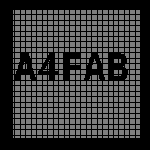
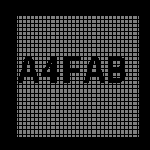
WIP
There's a bug that crashes some amount of sampling.

Introduction of sparse matrices is to blame

diff --git a/src/light_factor.rs b/src/light_factor.rs
@@ -52,17 +52,20 @@ pub struct LFBuffers {
     starting_values: (f32, f32),
     rng: bool,
     sample_next_redraw_flag: bool,
+    solve_next_redraw_flag: bool,
     progress: Option<RwLock<f32>>,
     matrix_rep: Option<LFMatrices>,
 }
 
 /// Struct to hold the matrices that we will build.
 /// Observations will be
+#[derive(Clone)]
 pub struct LFMatrices {
     m_a_y_matrix: SparseColMat<u32, f32>,
     m_a_x_matrix: SparseColMat<u32, f32>,
     m_b_y_matrix: SparseColMat<u32, f32>,
     m_b_x_matrix: SparseColMat<u32, f32>,
+    sample_count: usize,
 }
 
 impl LFBuffers {
@@ -176,6 +179,7 @@ impl LFBuffers {
             show_steps: false,
             starting_values: (0.5, 0.5),
             sample_next_redraw_flag: false,
+            solve_next_redraw_flag: false,
             progress: None,
             matrix_rep: None,
         }
@@ -201,10 +205,15 @@ impl LFBuffers {
             .collect();
         // Remove duplicates!
         triplet_list.retain(|(x, y, _entry)| seen.insert((*x, *y)));
+        let max_index = triplet_list.iter().max().unwrap();
+        println!("Max seen is: {:?}", max_index);
         seen
     }
     pub fn will_sample(&self) -> bool {
         self.sample_next_redraw_flag
+    }
+    pub fn will_solve(&self) -> bool {
+        self.solve_next_redraw_flag
     }
 
     pub fn build_m_a(
@@ -213,11 +222,15 @@ impl LFBuffers {
         target_size: (u32, u32),
         panel_size: (u32, u32),
     ) -> (SparseColMat<u32, f32>, SparseColMat<u32, f32>) {
+        println!("Target size: {:?}", target_size);
+        println!("Panel Size: {:?}", panel_size);
+
         let tripltets_m_a_x = Self::buffer_to_triplet(&self.m_a_x_buffer, device);
         let trplit_list: Vec<Triplet<u32, u32, f32>> = tripltets_m_a_x
             .iter()
             .map(|(x, y)| Triplet::new(*x, *y, 1.0f32))
             .collect();
+
         // Height t times height a
         let matrix_m_a_x = SparseColMat::try_new_from_triplets(
             target_size.1 as usize,
@@ -248,6 +261,8 @@ impl LFBuffers {
         target_size: (u32, u32),
         panel_size: (u32, u32),
     ) -> (SparseColMat<u32, f32>, SparseColMat<u32, f32>) {
+        println!("Target size: {:?}", target_size);
+        println!("Panel Size: {:?}", panel_size);
         let tripltets_m_b_x = Self::buffer_to_triplet(&self.m_b_x_buffer, device);
 
         let triplit_list: Vec<Triplet<u32, u32, f32>> = tripltets_m_b_x
@@ -280,65 +295,58 @@ impl LFBuffers {
     }
     pub fn sample_light_field(
         &mut self,
-        ct_image: &DynamicImage,
         device: &wgpu::Device,
         pixel_count_a: Vector2<u32>,
         pixel_count_b: Vector2<u32>,
         target_size: (u32, u32),
-    ) -> Option<(DynamicImage, DynamicImage)> {
+    ) {
         // Flag has not been raised
         if !self.sample_next_redraw_flag {
-            return None;
+            return;
         }
+
         let panel_a_size = (pixel_count_a.x, pixel_count_a.y);
         let panel_b_size = (pixel_count_b.x, pixel_count_b.y);
         let (ma_x, ma_y) = self.build_m_a(device, target_size, panel_a_size);
         let (mb_x, mb_y) = self.build_m_b(device, target_size, panel_b_size);
+        println!("Ma_x:{:?}", ma_x);
+        println!("Ma_y:{:?}", ma_y);
+        println!("Mb_x:{:?}", mb_x);
+        println!("Mb_y:{:?}", mb_y);
 
         let matrices = LFMatrices {
             m_a_y_matrix: ma_y,
             m_a_x_matrix: ma_x,
             m_b_y_matrix: mb_y,
             m_b_x_matrix: mb_x,
+            sample_count: 1,
         };
-        self.matrix_rep = Some(matrices);
+        if self.matrix_rep.is_none() {
+            self.matrix_rep = Some(matrices);
+        } else {
+            self.matrix_rep.as_mut().unwrap().join(matrices);
+        }
 
-        let c_t = image_to_matrix(ct_image);
-
-        let (a, b) = self.factorize(c_t);
-
-        let image_a = matrix_to_image(&a);
-        image_a
-            .save_with_format(
-                "./resources/panel_compute/panel_1.png",
-                image::ImageFormat::Png,
-            )
-            .unwrap();
-
-        let image_b = matrix_to_image(&b);
-
-        image_b
-            .save_with_format(
-                "./resources/panel_compute/panel_2.png",
-                image::ImageFormat::Png,
-            )
-            .unwrap();
         // We have already sampled, no need to sample again
         self.sample_next_redraw_flag = false;
-        Some((image_a, image_b))
     }
 
-    pub fn factorize(&self, c_t: Mat<f32>) -> (Mat<f32>, Mat<f32>) {
-        // Give 10 threads
+    pub fn factorize(&mut self, c_t: &DynamicImage) -> Option<(DynamicImage, DynamicImage)> {
+        let c_t = image_to_matrix(c_t);
         matrix_to_image(&c_t)
             .save_with_format(
                 "./resources/panel_compute/intermediate/C_T.png",
                 image::ImageFormat::Png,
             )
             .unwrap();
+
+        // Give 10 threads
         faer::set_global_parallelism(faer::Par::Rayon(NonZero::new(10).unwrap()));
 
-        let matrices = self.matrix_rep.as_ref().unwrap();
+        self.matrix_rep.as_ref()?;
+
+        let mut matrices = self.matrix_rep.as_ref().unwrap().clone();
+        matrices.average();
 
         let m_a_y = &matrices.m_a_y_matrix;
         let m_a_x = &matrices.m_a_x_matrix;
@@ -429,9 +437,45 @@ impl LFBuffers {
                     .for_each(|unzip!(c_b, n, d)| *c_b *= *n / (*d + 0.000000001f32));
             }
         }
-        (c_a, c_b)
+
+        let image_a = matrix_to_image(&c_a);
+        image_a
+            .save_with_format(
+                "./resources/panel_compute/panel_1.png",
+                image::ImageFormat::Png,
+            )
+            .unwrap();
+
+        let image_b = matrix_to_image(&c_b);
+
+        image_b
+            .save_with_format(
+                "./resources/panel_compute/panel_2.png",
+                image::ImageFormat::Png,
+            )
+            .unwrap();
+        self.solve_next_redraw_flag = false;
+        Some((image_a, image_b))
     }
 }
+
+impl LFMatrices {
+    pub fn join(&mut self, other: Self) {
+        self.sample_count += other.sample_count;
+
+        self.m_b_x_matrix = &self.m_b_x_matrix + &other.m_b_x_matrix;
+        self.m_a_x_matrix = &self.m_a_x_matrix + &other.m_a_x_matrix;
+        self.m_b_y_matrix = &self.m_b_y_matrix + &other.m_b_y_matrix;
+        self.m_a_y_matrix = &self.m_a_y_matrix + &other.m_a_y_matrix;
+    }
+    pub fn average(&mut self) {
+        self.m_b_x_matrix /= faer::Scale(self.sample_count as f32);
+        self.m_a_x_matrix /= faer::Scale(self.sample_count as f32);
+        self.m_a_y_matrix /= faer::Scale(self.sample_count as f32);
+        self.m_b_y_matrix /= faer::Scale(self.sample_count as f32);
+    }
+}
+
 impl DrawUI for LFBuffers {
     fn draw_ui(&mut self, ctx: &egui::Context, title: Option<String>) {
         let title = title.unwrap_or("Light Field Sampler".to_string());
@@ -445,8 +489,12 @@ impl DrawUI for LFBuffers {
                 ui.label("Iteration count");
                 ui.add(egui::Slider::new(&mut self.iter_count, 1..=1000));
                 ui.checkbox(&mut self.show_steps, "Print steps");
-                if ui.button("Solve").clicked() {
+
+                if ui.button("Sample").clicked() {
                     self.sample_next_redraw_flag = true;
+                }
+                if ui.button("Solve").clicked() {
+                    self.solve_next_redraw_flag = true;
                 }
                 if self.progress.is_some() {
                     let progress = *self.progress.as_ref().unwrap().read();

diff --git a/src/app.rs b/src/app.rs
@@ -102,7 +102,7 @@ impl AppState {
         surface.configure(&device, &surface_config);
 
         //
-        let texture_bytes = include_bytes!("../resources/textures/High res text.png");
+        let texture_bytes = include_bytes!("../resources/textures/Aircraft_code.png");
 
         let texture = texture::Texture::from_bytes(&device, &queue, texture_bytes, "Damn");
 
@@ -451,24 +451,28 @@ impl AppState {
     fn will_sample_light_field(&self) -> bool {
         self.factorizer.will_sample()
     }
+    fn will_solve_light_field(&self) -> bool {
+        self.factorizer.will_solve()
+    }
 
-    fn sample_light_field(&mut self, ct_image: &DynamicImage) {
+    fn sample_light_field(&mut self) {
         let target_size = (self.texture.dimensions.x, self.texture.dimensions.y);
         let pixel_count_a = self.scene.panels[0].panel.pixel_count;
 
         let pixel_count_b = self.scene.panels[1].panel.pixel_count;
         let device = &self.device;
-        let images = self.factorizer.sample_light_field(
-            ct_image,
-            device,
-            pixel_count_a,
-            pixel_count_b,
-            target_size,
-        );
-        if let Some((img_0, img_1)) = images {
-            self.update_panel(img_0, 0);
+        self.factorizer
+            .sample_light_field(device, pixel_count_a, pixel_count_b, target_size);
+    }
+    fn solver_light_field(&mut self, ct_image: &DynamicImage) {
+        if self.factorizer.will_solve() {
+            let images = self.factorizer.factorize(ct_image);
 
-            self.update_panel(img_1, 1);
+            if let Some((img_0, img_1)) = images {
+                self.update_panel(img_0, 0);
+
+                self.update_panel(img_1, 1);
+            }
         }
     }
     fn update_panel(&mut self, image: DynamicImage, panel_entry: usize) {
@@ -605,12 +609,26 @@ impl App {
             _ => (),
         }
     }
+
     /// Return true if we have sampled the light field, which means that we need to update the
     /// textures!
     pub fn get_sample_light_field(&mut self) -> Result<bool, String> {
         let state = self.state.as_mut().unwrap();
         if state.will_sample_light_field() {
             self.sampling_light_field = true;
+
+            state.sample_light_field();
+            //state.factorizer.sample_buffer_a_y(device);
+
+            self.sampling_light_field = false;
+            Ok(true)
+        } else {
+            Ok(false)
+        }
+    }
+    pub fn solve_light_field(&mut self) -> bool {
+        let state = self.state.as_mut().unwrap();
+        if state.will_solve_light_field() {
             let c_t = image::ImageReader::open({
                 if self.file_picker.texture_file.is_dir() {
                     self.file_picker.default_texture().clone()
@@ -626,15 +644,9 @@ impl App {
                 state.texture.dimensions.y,
                 image::imageops::FilterType::Nearest,
             );
-
-            state.sample_light_field(&c_t);
-            //state.factorizer.sample_buffer_a_y(device);
-
-            self.sampling_light_field = false;
-            Ok(true)
-        } else {
-            Ok(false)
+            state.solver_light_field(&c_t);
         }
+        state.will_solve_light_field()
     }
 
     // Take the new texture and queue an update
@@ -802,9 +814,12 @@ impl App {
             self.update_texture();
             self.file_picker.change_file = false;
         }
-        self.update_panel_texture();
-        if let Ok(true) = self.get_sample_light_field() {
-            self.default_panel();
+
+        //self.update_panel_texture();
+
+        self.get_sample_light_field().unwrap();
+
+        if self.solve_light_field() {
             self.displaying_panel_textures = true;
         }
 

diff --git a/todo.md b/todo.md
@@ -277,6 +277,48 @@ Go back and build.
 
 Change coloring
 Done!
+Still, some pixels are not mapped to anything, and default to zero. 
+We have the same problem as before, which is kind of annoying?
+
+Something to think about, perhaps will get better over time?
+Can we run a nearest neighbour filter to improve our ruslts?
+The nebulous blur is still there. 
+What if we default to 1?
+
+All this requires a good ui, and ideally turning things around.
+
+So to make experimentation easier:
+1) Launch the sampling from ui [X]
+2) Provide launch settings [X]
+3) Provide a load bar ~. Little hard to do, might need to ask for help
+4) Switch as soon as computation is done [X]
+
+Sparse matrix representations: [X]
+
+C_t should be kept in memory basically.
+
+But where does C_t live? How do we handle changes?
+Rn, we load C_t when solving, as the mapping is C_T agnostis. All C_t's have the same size when sampling
+
+
+Now we need to split collection and creation
+
+switch to sparse matrices, as we need easy representation. 
+
+Sum them, then divide them?
+Yep
+
+
+Need to add:
+A button for sampling
+Rexamine how to split the rest
+
+Sample
+
+
+Lock system for more things:
+
+k
 
 Experiment with average, max, different view points
 Introduce units
@@ -284,3 +326,4 @@ Introduce units
 Can you change the mapping?
 
 
+STRANGE BUG AT LOW ANGLES, THREATENS EVERYTHING?
